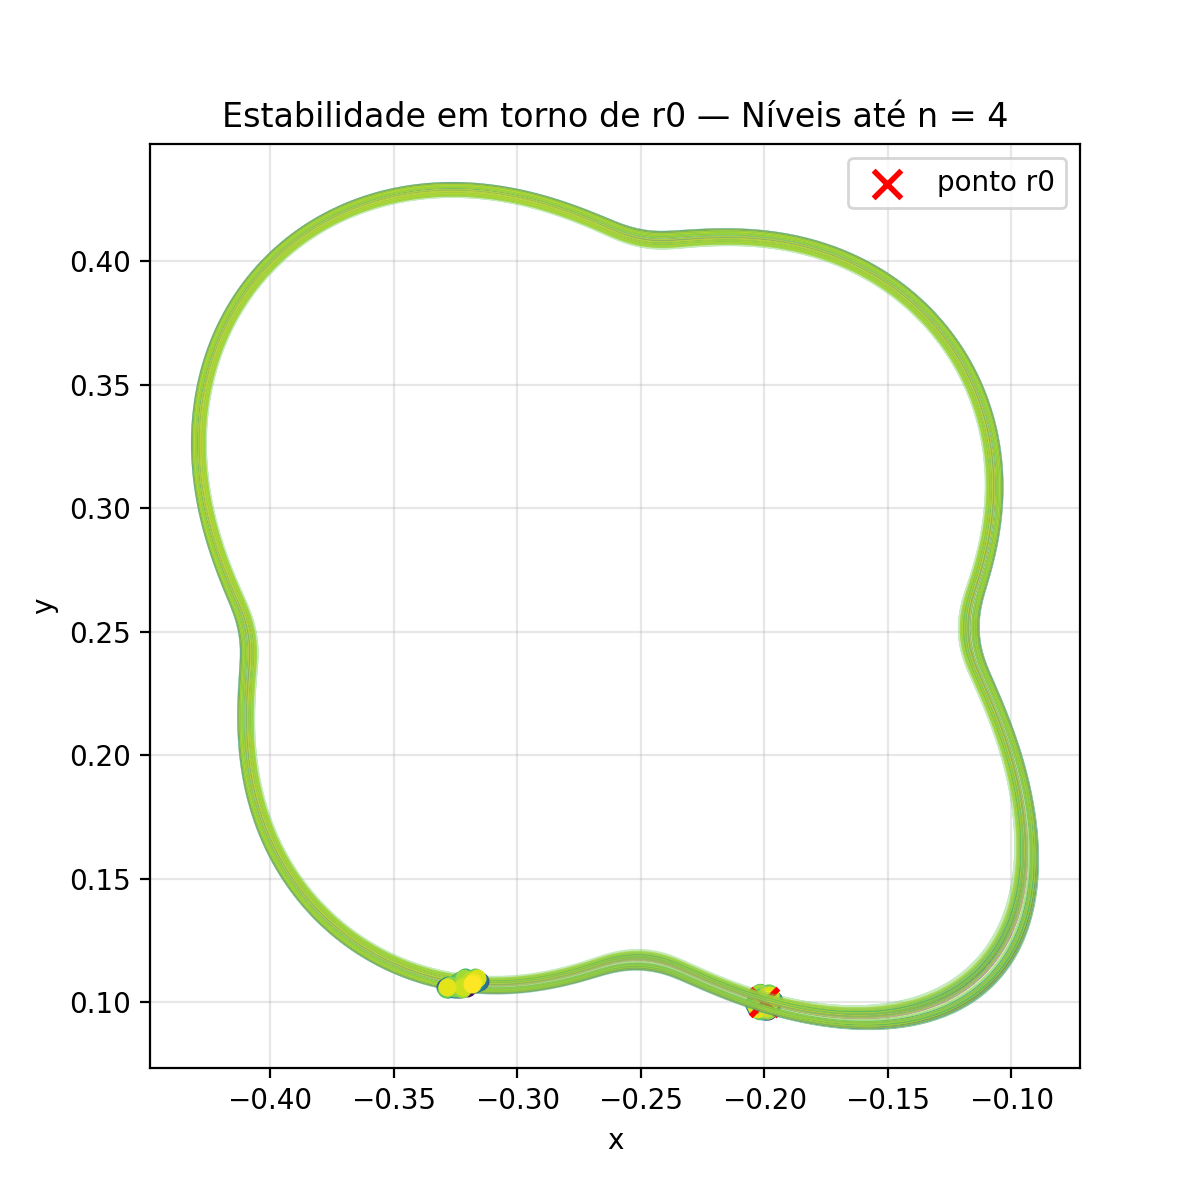
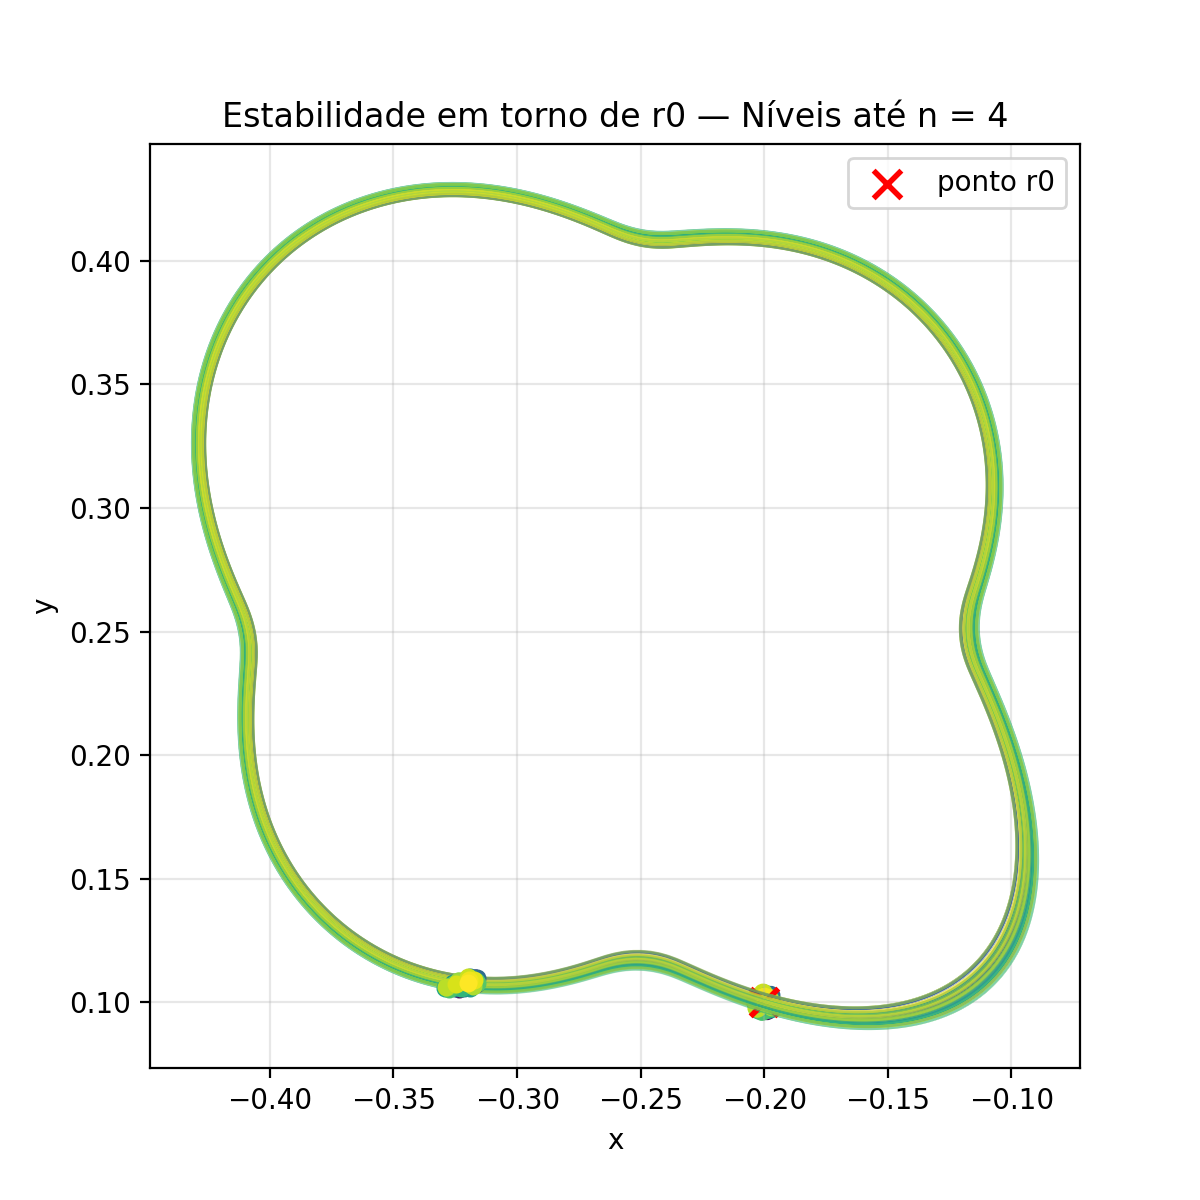
al

diff --git a/estático.py b/estático.py
@@ -66,7 +66,7 @@ def campo_2_com_index(x, y, t, n, index):
     if np.any(mask):
         poten[mask] = (
             2*np.pi
-            * np.exp(0.8 / ((r2[mask] / R2) - 1))
+            * np.exp(0.4 / ((r2[mask] / R2) - 1))
             / fc.T(n)
         )
     vx[mask] = -dy[mask] * poten[mask]
@@ -225,18 +225,25 @@ def campo_total_2_com_index(x, y, t, n_max=3):
             Vy += vy
 
     return Vx, Vy
-
+n = 1
 # Função para simular as partículas.
+x = np.array([-.2, -.201, .1])
+y = np.array([.1, .1, .013])
 
-
-
+a = campo_total_otimo(x, y, 0, n)
+b = campo_total_otimo_vet(x, y, 0, n)
+c = campo_total_2_com_index(x, y , 0, n)
+print(f'campo total otimo:{a}')
+print(f'campo total otimo vetorizado certo:{b}')
+print(f'campo total correto:{c}')
 def testar_estabilidade_2(
     nivel_max,
     
     N_particulas,
     r0,
-    pasta_saida="estabilidade_com_todos_os_pontos",
-    nivel_min = 1
+    pasta_saida="estabilidade_2",
+    nivel_min = 1,
+    funcao = campo_total_otimo
 ):
     """
     Testa a estabilidade do ponto r0 para diferentes números de níveis do campo.
@@ -264,7 +271,7 @@ def testar_estabilidade_2(
             dimensao_quadrado=L,
             r0=r0,
             dt=dt,
-            t_max=t_max, func= campo_total_otimo_vet
+            t_max=t_max, func= funcao
         )
 
         # rs tem shape (Nt, N, 2)
@@ -332,13 +339,16 @@ def testar_estabilidade_2(
 
         print(f"Imagem salva em: {nome_arquivo}")
 
-r0 = np.array([[-.2, .1]])
-
+'''r0 = np.array([[-.2, .1]])
+a= 'estabilidade_2'
+b ='estabilidade_com_todos_os_pontos'
 testar_estabilidade_2(
-    nivel_max=8,
+    nivel_max=7,
     N_particulas=50,
     r0=r0,
-    nivel_min = 8
+    nivel_min = 5,
+    pasta_saida= b,
+    funcao=campo_total_2_com_index
 )
 
-
+'''
